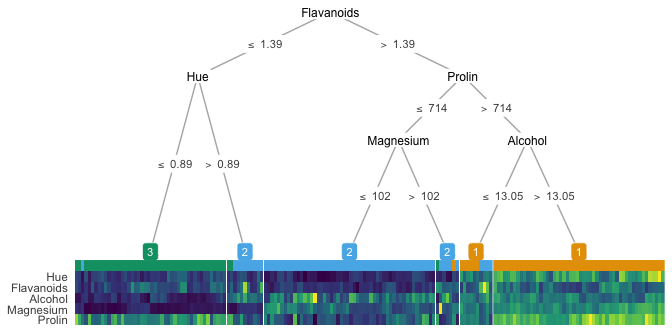
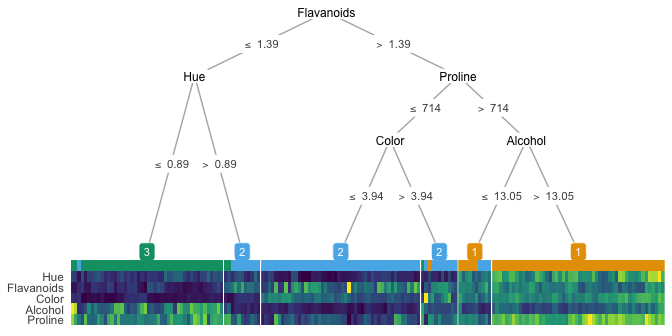
clean up README second example

diff --git a/README.md b/README.md
@@ -25,20 +25,14 @@ heat_tree(iris, class_lab = 'Species') %>%
 
 ![](README_files/figure-gfm/unnamed-chunk-2-1.png)<!-- -->
 
-### Wine recognition dataset from the Penn ML Benchmarks ([PMLB](https://github.com/EpistasisLab/penn-ml-benchmarks))
+### Wine recognition dataset
 
 Classification of different cultivars of wine.
 
 ``` r
-library(pmlblite)
-dataset_name <- 'wine-recognition'
-feat_names <- c('Alcohol', 'Malic acid', 'Ash', 'Alcalinity of ash', 'Magnesium', 
-                'Total phenols', 'Flavanoids', 'Nonflavanoid phenols', 'Proanthocyanins',
-                'Color intensity', 'Hue', 'OD280/OD315 of diluted wines', 'Prolin')
-dat_raw <- fetch_data(dataset_name)
-colnames(dat_raw)[2:14] <- feat_names
+data(wine, package = 'rattle')
 
-heat_tree(dat_raw, class_lab = 'target') %>% 
+heat_tree(wine, class_lab = 'Type') %>% 
   grid.draw()
 ```
 
